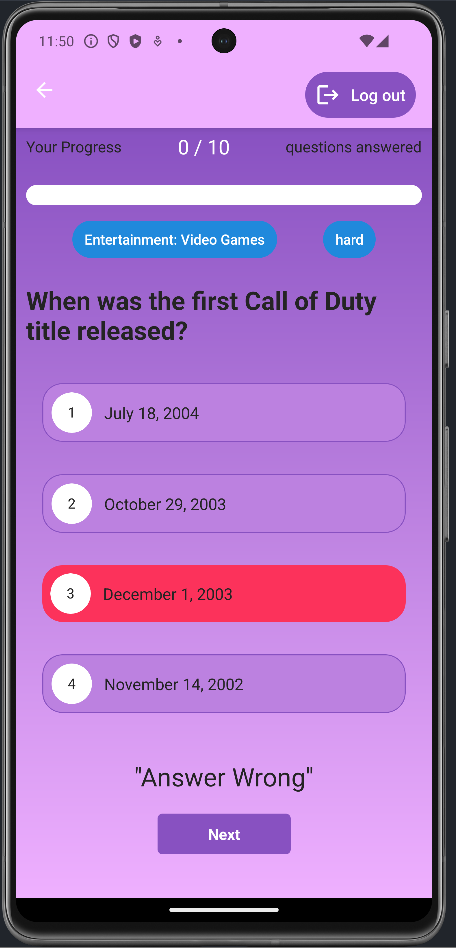
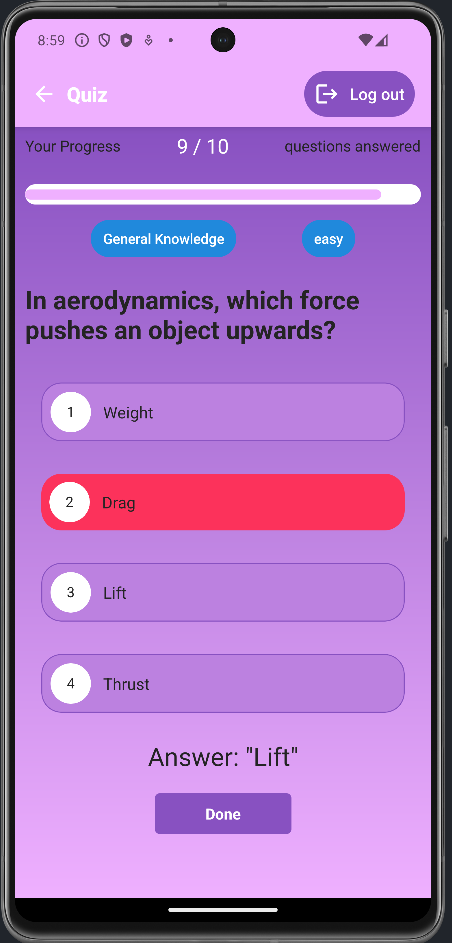
logout flow

diff --git a/stack-navigator.tsx b/stack-navigator.tsx
@@ -19,7 +19,7 @@ export default function StackNavigator() {
         initialRouteName="Login"
         screenOptions={({ navigation }) => ({
           headerRight: () => <Logout />,
-          /* headerLeft: () => (
+          headerLeft: () => (
             <TouchableOpacity onPress={() => navigation.goBack()}>
               <Icon
                 name="arrow-back"
@@ -28,7 +28,7 @@ export default function StackNavigator() {
                 iconStyle={{ marginRight: 10 }}
               />
             </TouchableOpacity>
-          ), */
+          ),
           headerStyle: styles.headerStyle,
           headerTintColor: "#fff",
           headerTitleStyle: styles.headerTitleStyle,
@@ -46,51 +46,21 @@ export default function StackNavigator() {
           component={Dashboard}
           options={{
             title: "Dashboard",
-            headerLeft: () => (
-              <TouchableOpacity>
-                <Icon
-                  name="arrow-back"
-                  color="white"
-                  size={25}
-                  iconStyle={{ marginRight: 10 }}
-                />
-              </TouchableOpacity>
-            ),
           }}
         />
         <Stack.Screen
           name="Quiz"
           component={Quiz}
-          options={({ navigation }) => ({
+          options={{
             title: "Quiz",
-            headerLeft: () => (
-              <TouchableOpacity onPress={() => navigation.goBack()}>
-                <Icon
-                  name="arrow-back"
-                  color="white"
-                  size={25}
-                  iconStyle={{ marginRight: 10 }}
-                />
-              </TouchableOpacity>
-            ),
-          })}
+          }}
         />
         <Stack.Screen
           name="Score"
           component={Score}
-          options={({ navigation }) => ({
+          options={{
             title: "Score",
-            headerLeft: () => (
-              <TouchableOpacity onPress={() => navigation.goBack()}>
-                <Icon
-                  name="arrow-back"
-                  color="white"
-                  size={25}
-                  iconStyle={{ marginRight: 10 }}
-                />
-              </TouchableOpacity>
-            ),
-          })}
+          }}
         />
       </Stack.Navigator>
     </QueryClientProvider>

diff --git a/screens/quiz.tsx b/screens/quiz.tsx
@@ -108,7 +108,9 @@ export default function Dashboard() {
 
   useEffect(() => {
     return () => {
+      setAnswers([]);
       setCurrent(null);
+      setPoints(0);
     };
   }, []);
 
@@ -198,7 +200,7 @@ export default function Dashboard() {
                             <View>
                               <Text style={styles.number}>{indx + 1}</Text>
                             </View>
-                            <ListItem.Title style={{ width: "auto" }}>
+                            <ListItem.Title style={{ maxWidth: 290, aspectRatio: "auto", height: "auto" }}>
                               {quotes(item)}
                             </ListItem.Title>
                           </ListItem.Content>
@@ -210,7 +212,9 @@ export default function Dashboard() {
                 {answerStatus !== null && (
                   <View style={styles.next}>
                     <Text style={styles.label}>
-                      {answerStatus ? '"Answer Correct"' : '"Answer Wrong"'}
+                      {answerStatus
+                        ? ""
+                        : `Answer: "${quotes(current?.correct_answer)}"`}
                     </Text>
                     <TouchableOpacity
                       onPress={onClickNext}
@@ -360,7 +364,7 @@ const styles = StyleSheet.create({
     alignItems: "center",
     alignContent: "center",
     flexDirection: "column",
-    marginVertical: 30,
+    marginVertical: 10,
   },
   label: {
     fontWeight: "400",

diff --git a/screens/login.tsx b/screens/login.tsx
@@ -15,29 +15,28 @@ import { LoginScreenNavigationProp } from "../types/stack-navigator";
 import { useLoginStore } from "../stores/login";
 import { LinearGradient } from "expo-linear-gradient";
 import { Colors } from "../const";
+import { useAuth } from "../context/authentication-context";
 
 export default function Login() {
   const [username, setUsername] = useState("");
   const [password, setPassword] = useState("");
   const navigation = useNavigation<LoginScreenNavigationProp>();
-  const { defaultUser, setIsLoggedIn } = useLoginStore();
+  const { defaultUser } = useLoginStore();
+  const { setUser } = useAuth();
 
   const onLogin = () => {
     if (
       password === defaultUser?.password &&
       username === defaultUser?.username
     ) {
-      setIsLoggedIn();
-      navigation.navigate("Dashboard");
+      setUser({ password, username })
+      navigation.navigate("Dashboard") 
     }
   };
-
+  
   return (
     <SafeAreaView style={styles.container}>
-      <LinearGradient
-        style={styles.gradient}
-        colors={Colors}
-      >
+      <LinearGradient style={styles.gradient} colors={Colors}>
         <ScrollView>
           <View style={styles.imageContainer}>
             <View>

diff --git a/stores/async-login.ts b/stores/async-login.ts
@@ -1,10 +1,10 @@
-import { User } from "./interfaces";
+import AsyncStorage from "@react-native-async-storage/async-storage";
 
-import AsyncStorage from '@react-native-async-storage/async-storage';
+import { User } from "./interfaces";
 
 export const storeUserData = async (userData: User): Promise<void> => {
   try {
-    await AsyncStorage.setItem('user', JSON.stringify(userData));
+    await AsyncStorage.setItem("user", JSON.stringify(userData));
   } catch (error) {
     console.error("Error saving data", error);
   }
@@ -12,7 +12,7 @@ export const storeUserData = async (userData: User): Promise<void> => {
 
 export const retrieveUserData = async (): Promise<User | null> => {
   try {
-    const userDataJson = await AsyncStorage.getItem('user');
+    const userDataJson = await AsyncStorage.getItem("user");
     if (userDataJson !== null) {
       return JSON.parse(userDataJson);
     }

diff --git a/components/logout.tsx b/components/logout.tsx
@@ -1,10 +1,27 @@
 import React from "react";
 import { Button, Icon } from "@rneui/themed";
 import { View, StyleSheet } from "react-native";
+import AsyncStorage from "@react-native-async-storage/async-storage";
+import { useNavigation } from "@react-navigation/native";
+
+import { useAuth } from "../context/authentication-context";
+import { ScoreScreenNavigationProp } from "../types/stack-navigator";
 
 export const Logout: React.FunctionComponent<{}> = () => {
+  const { setUser } = useAuth();
+  const navigation = useNavigation<ScoreScreenNavigationProp>();
+
+  const logout = async () => {
+    try {
+      await AsyncStorage.removeItem("user");
+      setUser(null);
+      navigation.navigate("Login")
+    } catch (error) {
+      console.error("Error logging out", error);
+    }
+  };
   const onLogout = () => {
-    alert("Logout");
+    logout();
   };
 
   return (

diff --git a/README.md b/README.md
@@ -43,7 +43,7 @@ Welcome to the "Quiz" built with Expo! This README will guide you through settin
 
     - Using yarn:
       ```bash
-      yarn
+      yarn install
       ```
 
 ### Running the App:
